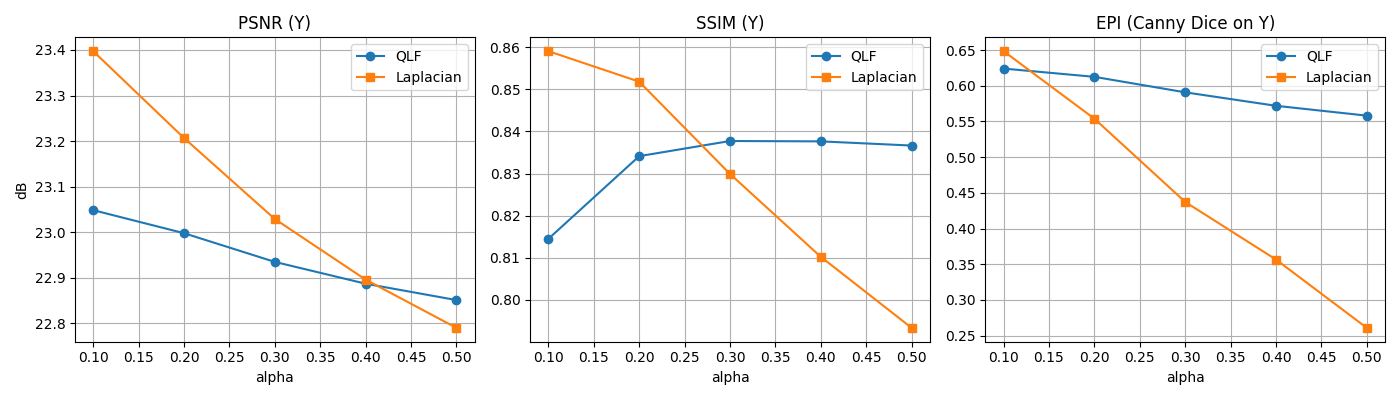
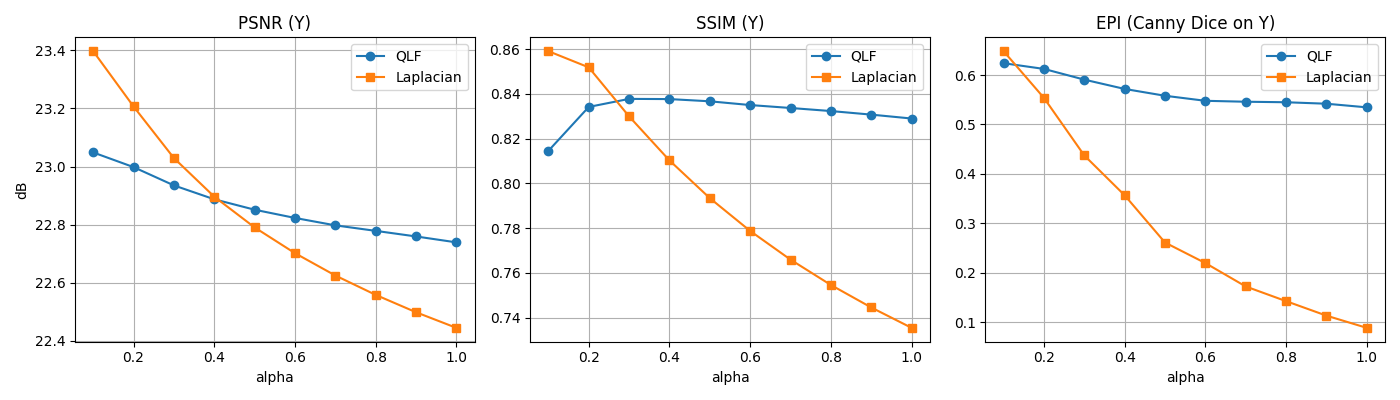
alpha range changed

diff --git a/main.py b/main.py
@@ -47,9 +47,19 @@ save_filter_comparison(base_img=cameraman_img, qlf_results=qlf_imgs,
 
 # Low Light Image Enhancement Experiment
 low_light_experiment = LowLightEnhancement()
-alphas = [0.1, 0.2, 0.3, 0.4, 0.5]
-low_light_qlf_result = [low_light_experiment.enhance(low=low_light_img, ref=normal_img, filter=qlf, alpha=alpha)['enhanced'] for alpha in alphas]
-low_light_laplace_result = [low_light_experiment.enhance(low=low_light_img, ref=normal_img, filter=laplacian, alpha=alpha)['enhanced'] for alpha in alphas]
+alphas = np.arange(0.1, 1.1, 0.1)
+low_light_qlf_result = [low_light_experiment.enhance(
+    low=low_light_img,
+    ref=normal_img,
+    filter=qlf,
+    alpha=alpha
+)['enhanced'] for alpha in alphas]
+low_light_laplace_result = [low_light_experiment.enhance(
+    low=low_light_img,
+    ref=normal_img,
+    filter=laplacian,
+    alpha=alpha
+)['enhanced'] for alpha in alphas]
 
 quant_analysis = QuantitativeAnalysis()
 qlf_psnrs, qlf_ssims, qlf_epis = [], [], []
